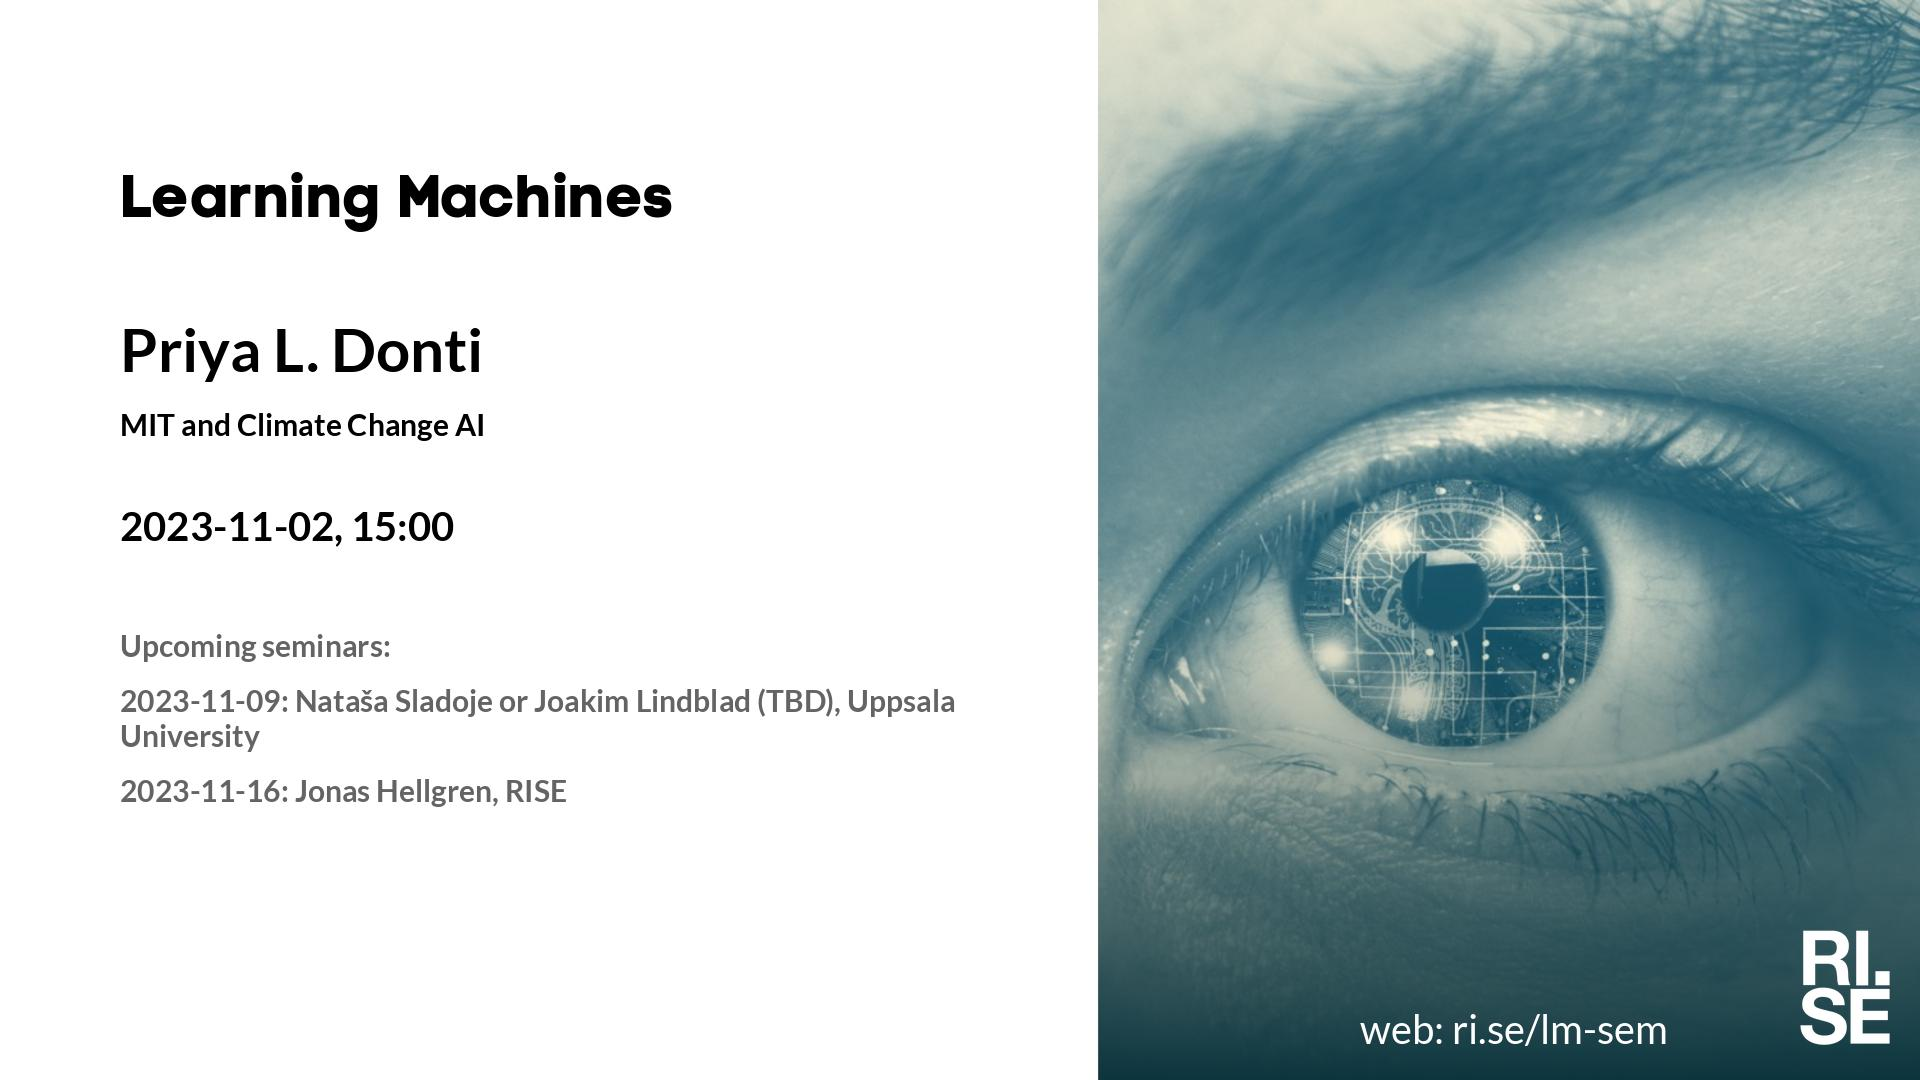
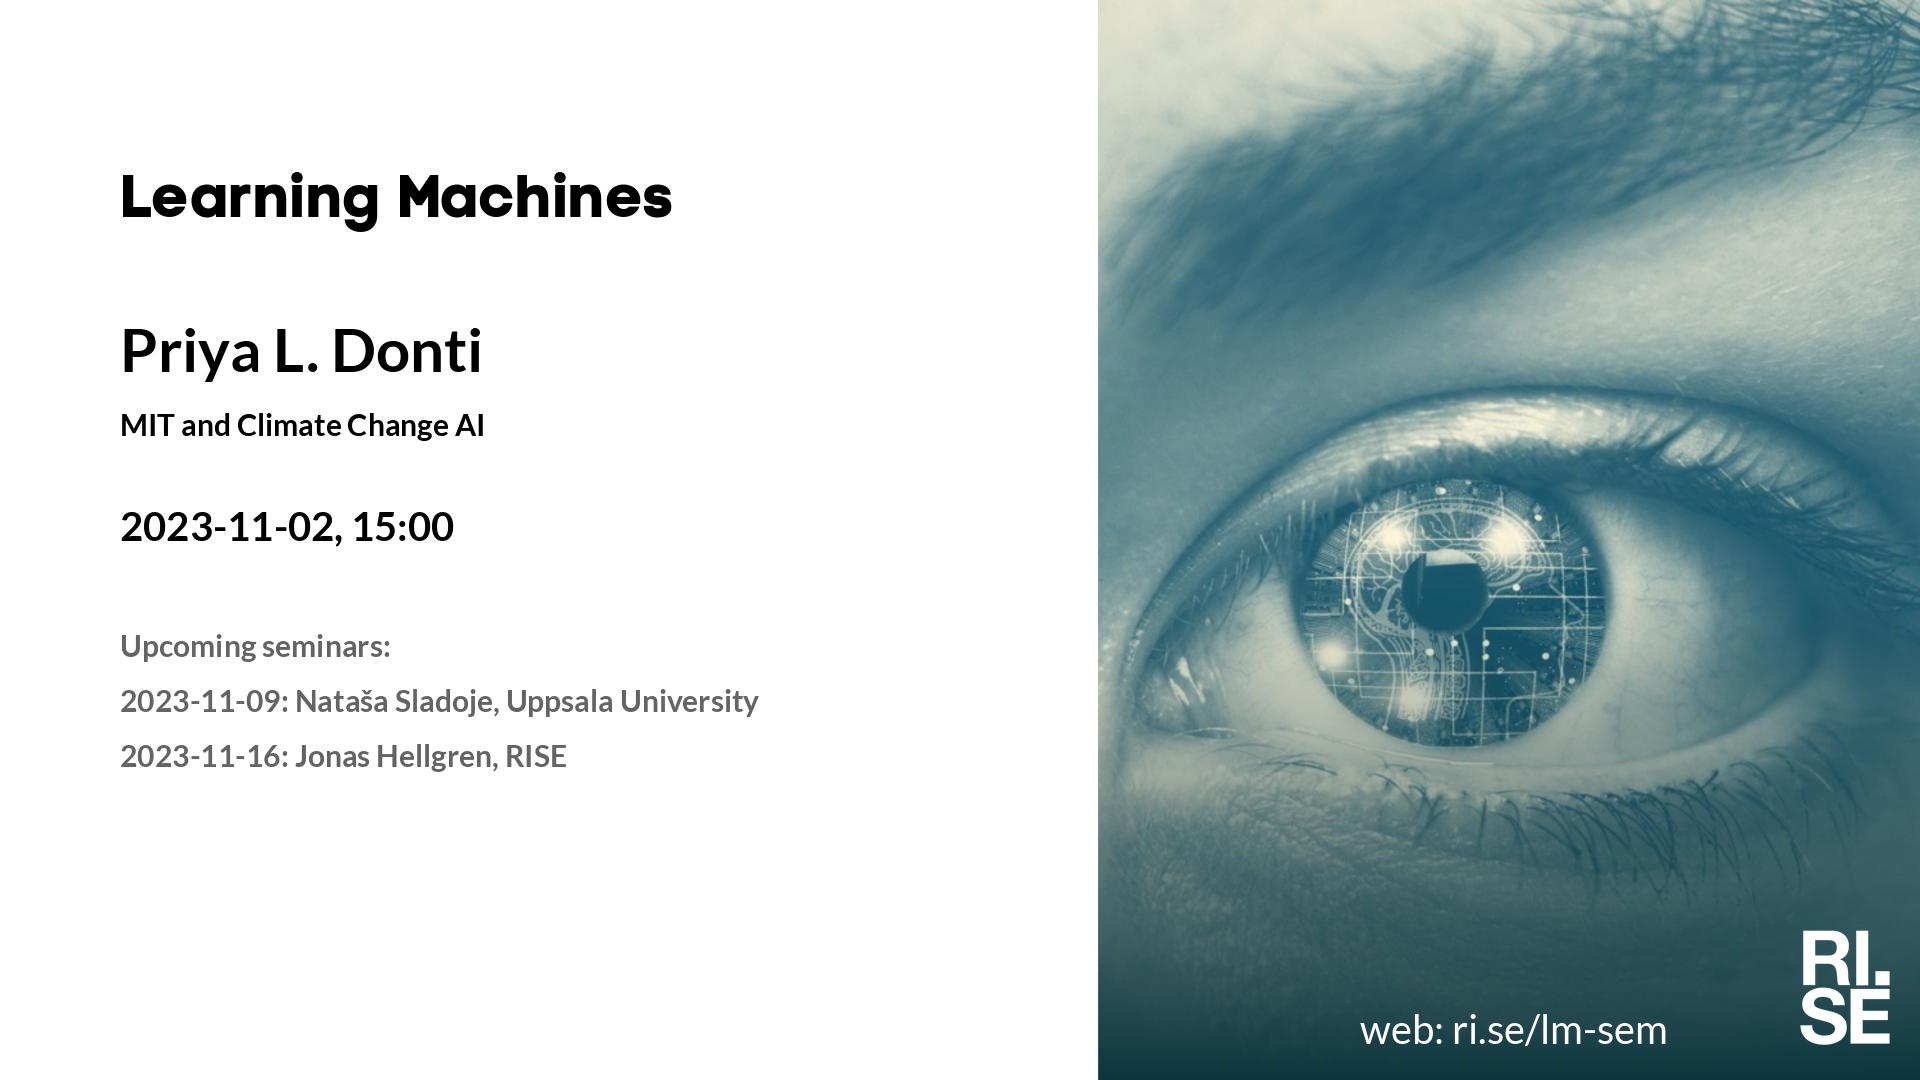
Updated plan on web site.

Changed region(s): [[0.0625, 0.6417, 0.5, 0.7639]]

diff --git a/lm/index.md b/lm/index.md
@@ -17,9 +17,9 @@ table {border-collapse: collapse;}
 |  2023-10-05  |  [Klaus-Robert Müller, TU Berlin](2023-10-05.md)  |  [photo](photo-klaus-robert-muller.jpg)  |  [social media ](social-media-klaus-robert-muller.jpg)  |  [meeting backdrop ](meeting-backdrop-klaus-robert-muller.jpg)  |  [youtube thumbnail ](youtube-thumbnail-klaus-robert-muller.jpg)  |  STABP  |
 | <span style="color:grey"> 2023-10-12 </span> | <span style="color:grey"> Giulio B. ? </span> | <span style="color:grey">  </span> | <span style="color:grey">  </span> | <span style="color:grey">  </span> | <span style="color:grey">  </span> | <span style="color:grey"> ?~~TABP~~ </span> |
 |  2023-10-19  |  [Valentin De Bortoli, ENS Ulm, Paris](2023-10-19.md)  |  [photo](photo-valentin-de-bortoli.jpg)  |  [social media ](social-media-valentin-de-bortoli.jpg)  |  [meeting backdrop ](meeting-backdrop-valentin-de-bortoli.jpg)  |  [youtube thumbnail ](youtube-thumbnail-valentin-de-bortoli.jpg)  |  S~~TAB~~P  |
-| <span style="color:purple"> 2023-10-26 </span> | <span style="color:purple"> *Up for grabs!!!* </span> | <span style="color:purple">  </span> | <span style="color:purple">  </span> | <span style="color:purple">  </span> | <span style="color:purple">  </span> | <span style="color:purple"> ~~STABP~~ </span> |
+| <span style="color:grey"> 2023-10-26 </span> | <span style="color:grey"> Joakim L. ? </span> | <span style="color:grey">  </span> | <span style="color:grey">  </span> | <span style="color:grey">  </span> | <span style="color:grey">  </span> | <span style="color:grey"> ?~~TABP~~ </span> |
 |  2023-11-02  |  [Priya L. Donti, MIT and Climate Change AI](2023-11-02.md)  |  [photo](photo-priya-l.-donti.jpg)  |  [social media ](social-media-priya-l.-donti.jpg)  |  [meeting backdrop ](meeting-backdrop-priya-l.-donti.jpg)  |  [youtube thumbnail ](youtube-thumbnail-priya-l.-donti.jpg)  |  S~~TAB~~P  |
-|  2023-11-09  |  [Nataša Sladoje or Joakim Lindblad (TBD), Uppsala University](2023-11-09.md)  |    |  [social media ](social-media-natasa-sladoje-or-joakim-lindblad-(tbd).jpg)  |  [meeting backdrop ](meeting-backdrop-natasa-sladoje-or-joakim-lindblad-(tbd).jpg)  |  [youtube thumbnail ](youtube-thumbnail-natasa-sladoje-or-joakim-lindblad-(tbd).jpg)  |  S~~TABP~~  |
+|  2023-11-09  |  [Nataša Sladoje, Uppsala University](2023-11-09.md)  |    |  [social media ](social-media-natasa-sladoje.jpg)  |  [meeting backdrop ](meeting-backdrop-natasa-sladoje.jpg)  |  [youtube thumbnail ](youtube-thumbnail-natasa-sladoje.jpg)  |  S~~TABP~~  |
 |  2023-11-16  |  [Jonas Hellgren, RISE](2023-11-16.md)  |    |  [social media ](social-media-jonas-hellgren.jpg)  |  [meeting backdrop ](meeting-backdrop-jonas-hellgren.jpg)  |  [youtube thumbnail ](youtube-thumbnail-jonas-hellgren.jpg)  |  ST~~ABP~~  |
 | <span style="color:grey"> 2023-11-23 </span> | <span style="color:grey"> Zhirong Y. ? </span> | <span style="color:grey">  </span> | <span style="color:grey">  </span> | <span style="color:grey">  </span> | <span style="color:grey">  </span> | <span style="color:grey"> ?~~TABP~~ </span> |
 | <span style="color:purple"> 2023-11-30 </span> | <span style="color:purple"> *Up for grabs!!!* </span> | <span style="color:purple">  </span> | <span style="color:purple">  </span> | <span style="color:purple">  </span> | <span style="color:purple">  </span> | <span style="color:purple"> ~~STABP~~ </span> |

diff --git a/lm/2023-10-05.md b/lm/2023-10-05.md
@@ -20,7 +20,7 @@ Welcome to this week's Learning Machines seminar.
 
 * 2023-10-19: Valentin De Bortoli, ENS Ulm, Paris
 * 2023-11-02: Priya L. Donti, MIT and Climate Change AI
-* 2023-11-09: Nataša Sladoje or Joakim Lindblad (TBD), Uppsala University
+* 2023-11-09: Nataša Sladoje, Uppsala University
 * 2023-11-16: Jonas Hellgren, RISE
 
 More information and coming seminars: [https://ri.se/lm-sem](https://ri.se/lm-sem)

diff --git a/lm/2023-10-19.md b/lm/2023-10-19.md
@@ -19,7 +19,7 @@ Welcome to this week's Learning Machines seminar.
 **Upcoming seminars:**
 
 * 2023-11-02: Priya L. Donti, MIT and Climate Change AI
-* 2023-11-09: Nataša Sladoje or Joakim Lindblad (TBD), Uppsala University
+* 2023-11-09: Nataša Sladoje, Uppsala University
 * 2023-11-16: Jonas Hellgren, RISE
 
 More information and coming seminars: [https://ri.se/lm-sem](https://ri.se/lm-sem)

diff --git a/lm/2023-11-02.md b/lm/2023-11-02.md
@@ -18,7 +18,7 @@ Welcome to this week's Learning Machines seminar.
 
 **Upcoming seminars:**
 
-* 2023-11-09: Nataša Sladoje or Joakim Lindblad (TBD), Uppsala University
+* 2023-11-09: Nataša Sladoje, Uppsala University
 * 2023-11-16: Jonas Hellgren, RISE
 
 More information and coming seminars: [https://ri.se/lm-sem](https://ri.se/lm-sem)

diff --git a/lm/2023-11-09.md b/lm/2023-11-09.md
@@ -6,7 +6,7 @@ Welcome to this week's Learning Machines seminar.
 
 **Title:** N/A
 
-**Speaker:** Nataša Sladoje or Joakim Lindblad (TBD), Uppsala University
+**Speaker:** Nataša Sladoje, Uppsala University
 
 **Abstract:** N/A
 
